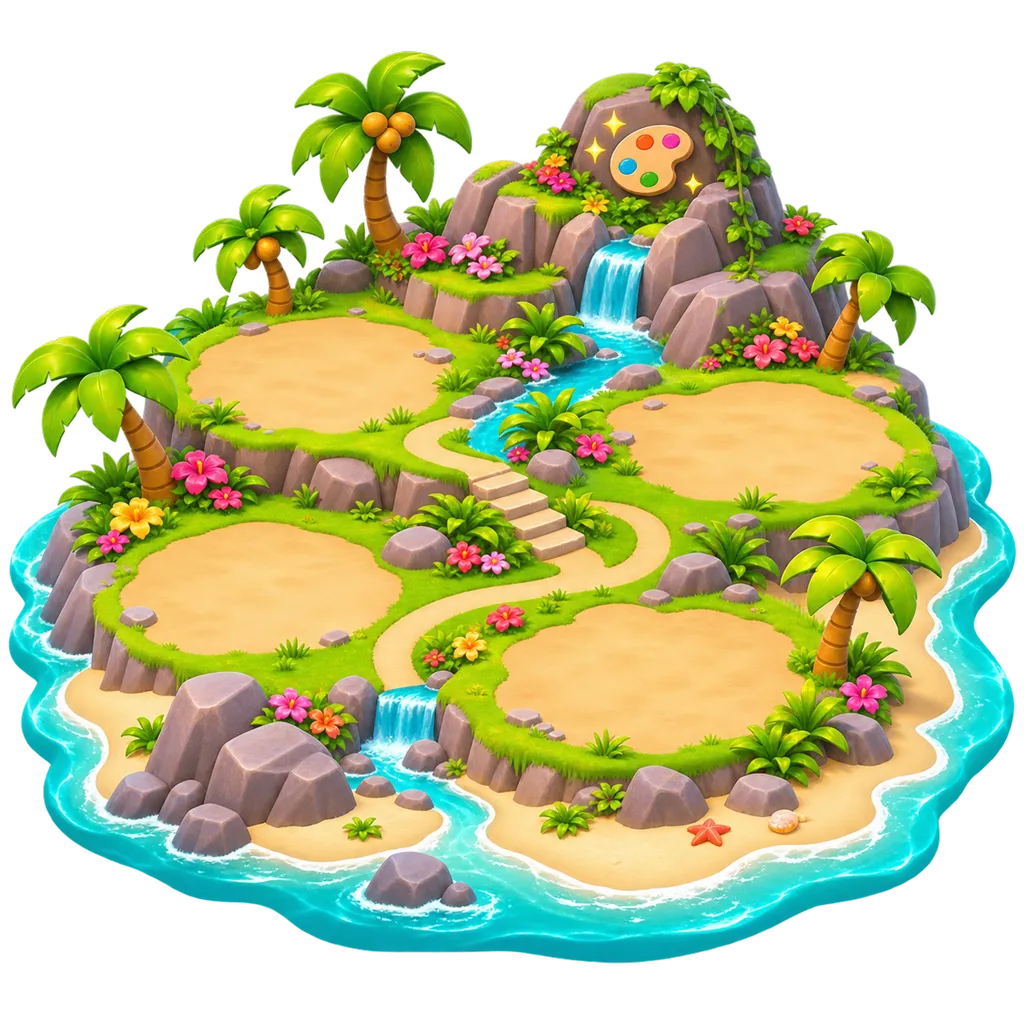
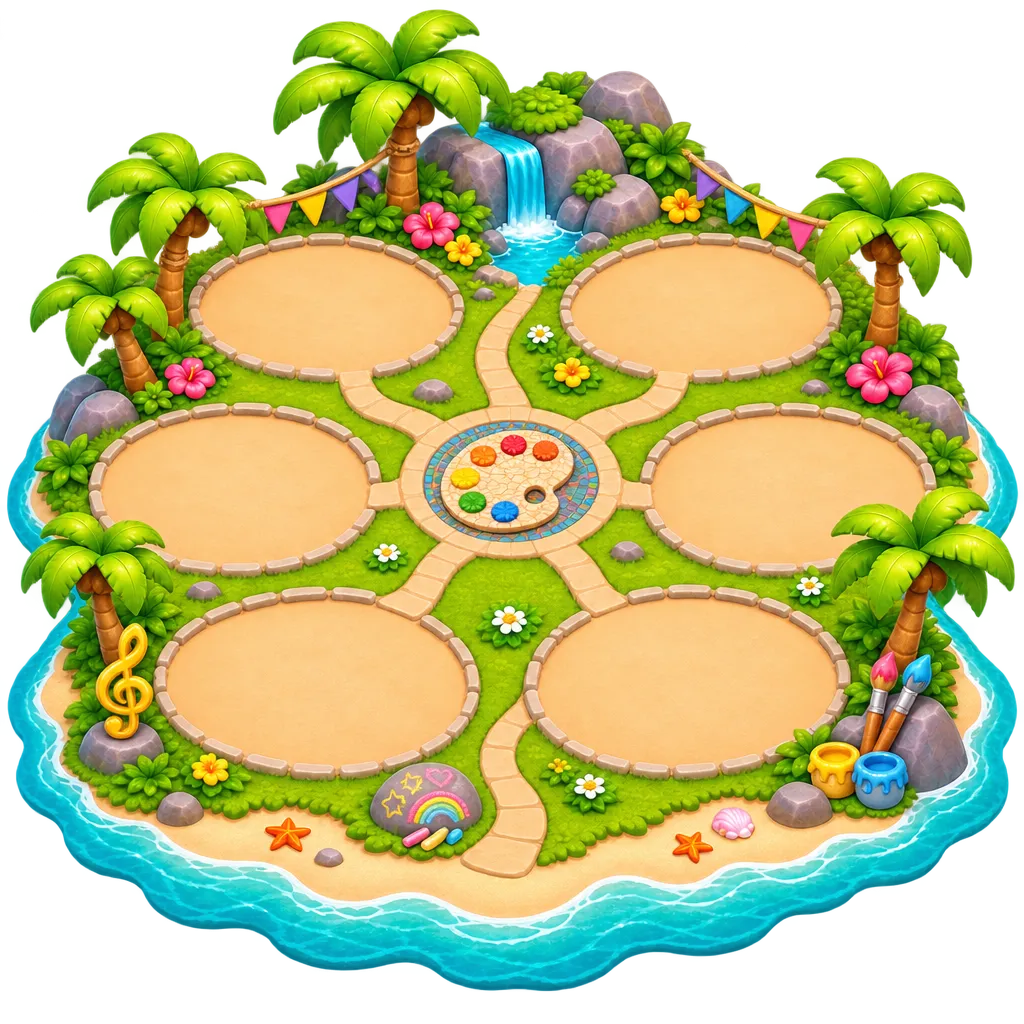
Île des créateurs à 6 emplacements, tour de l'horloge recentrée
Nouvelle carte de l'île des créateurs (6 places, décor de créateurs) :
les 5 bâtiments sont chacun sur leur place, et il en reste une libre.

diff --git a/js/carte.js b/js/carte.js
@@ -256,8 +256,8 @@ const batimentImage = (fichier, x, y, cote) => {
 const EMPLACEMENTS = {
   village: { cote: 122, places: [[0.5, 0.2], [0.294, 0.322], [0.706, 0.322], [0.244, 0.456], [0.75, 0.456], [0.206, 0.6], [0.775, 0.606], [0.494, 0.756]],
     maisons: [[0.494, 0.487], [0.494, 0.625]] },
-  savoir: { cote: 122, places: [[0.5, 0.215], [0.32, 0.355], [0.685, 0.355], [0.24, 0.52], [0.75, 0.52], [0.215, 0.657], [0.493, 0.7], [0.78, 0.657]] },
-  createurs: { cote: 150, places: [[0.307, 0.357], [0.743, 0.42], [0.25, 0.57], [0.643, 0.657], [0.34, 0.8]] }, // le 5e : l'atelier des robots, devant, sur les rochers
+  savoir: { cote: 122, places: [[0.5, 0.215], [0.338, 0.36], [0.685, 0.355], [0.24, 0.52], [0.75, 0.52], [0.215, 0.657], [0.493, 0.7], [0.78, 0.657]] },
+  createurs: { cote: 150, places: [[0.317, 0.298], [0.684, 0.298], [0.23, 0.479], [0.771, 0.479], [0.308, 0.664], [0.674, 0.669]] }, // l'île à 6 emplacements (une place libre)
   securite: { cote: 150, places: [[0.314, 0.343], [0.686, 0.35], [0.27, 0.6], [0.683, 0.607]] },
   coeur: { cote: 150, places: [[0.27, 0.4], [0.67, 0.43], [0.275, 0.607], [0.693, 0.636]] },
   nature: { cote: 150, places: [[0.27, 0.41], [0.68, 0.43], [0.28, 0.61], [0.69, 0.64]] },

diff --git a/sw.js b/sw.js
@@ -1,5 +1,5 @@
 // Garde l'app en cache pour qu'elle marche hors ligne. Changer VERSION à chaque mise en ligne.
-const VERSION = 'ile-52';
+const VERSION = 'ile-53';
 importScripts('images/liste.js'); // self.IMAGES : les images du nouveau style déjà prêtes
 const FICHIERS = [...self.IMAGES, 'images/liste.js',
   './', 'index.html', 'style.css', 'manifest.json', 'icons/icone-192.png', 'icons/icone-512.png',

diff --git a/RESUME-SESSION.md b/RESUME-SESSION.md
@@ -4,7 +4,7 @@
 
 ## Où on en est
 - Branche de travail : `jardin-route-voix`. Elle est fusionnée dans `main` à chaque fois que la personne dit « Oui, commite et envoie ».
-- Version du cache (`sw.js`) : `ile-52`. Il faut la monter à chaque envoi.
+- Version du cache (`sw.js`) : `ile-53`. Il faut la monter à chaque envoi.
 - 131 tests, tous verts (`npm test`).
 - Faits pendant cette session :
   - les visuels des lots 37 à 50 : intérieurs, îles, maison, avatar en 175 calques, 30 articles, 6 couleurs de cheveux, personnages, 40 scènes d'histoires, calendrier de l'Avent ;
@@ -32,7 +32,7 @@
   - En cas de vieux cache : désinscrire le service worker, vider les caches, puis recharger.
 
 ## En attente
-- **Améliorations du 25 nov.** : pastille « 3 jeux » sur les bâtiments qui en cachent plusieurs ; médailles sur la carte (`profil.parties`, bronze 1, argent 5, or 15 parties) ; **premiers secours** sur l'île de la sécurité (quiz, à faire relire) ; île de la nature à 20 ⭐ ; archipel agrandi vers le bas (2 places « Bientôt ») ; atelier des robots déplacé ; **mon potager** (semer en saison, arroser une fois par jour, récolter : `js/jeux/jardinage.js`, saisons à faire relire) ; monnaie à rendre au glacier dès 8 ans.
+- **Améliorations du 25 nov.** : pastille « 3 jeux » sur les bâtiments qui en cachent plusieurs ; médailles sur la carte (`profil.parties`, bronze 1, argent 5, or 15 parties) ; **premiers secours** sur l'île de la sécurité (quiz, à faire relire) ; île de la nature à 20 ⭐ ; archipel agrandi vers le bas (2 places « Bientôt ») ; atelier des robots déplacé, puis nouvelle carte de l’île des créateurs à 6 emplacements (une place libre) et tour de l’horloge recentrée ; **mon potager** (semer en saison, arroser une fois par jour, récolter : `js/jeux/jardinage.js`, saisons à faire relire) ; monnaie à rendre au glacier dès 8 ans.
   - **Cabane nature** : 19 fiches d'animaux (famille, milieu, régime, avec images Higgsfield dans `images/nature/`) et 17 fiches de plantes (comestible, à cuire, ne se mange pas, dangereuse), plus des questions de quiz tirées des fiches (`js/jeux/nature-fiches.js`). Les plantes restent en emoji : une image inventée pourrait tromper, et une plante dangereuse n'est jamais montrée avec un fruit appétissant. À faire relire par un parent.
   - Pas faits : le tangram et les minuscules de l'atelier d'écriture.
   - **Demandé ensuite** : de meilleurs visuels pour l'hôpital : une image par catégorie (comme les dinosaures et les thèmes de langue), puis des images interactives à la place des dessins dans chaque catégorie.
